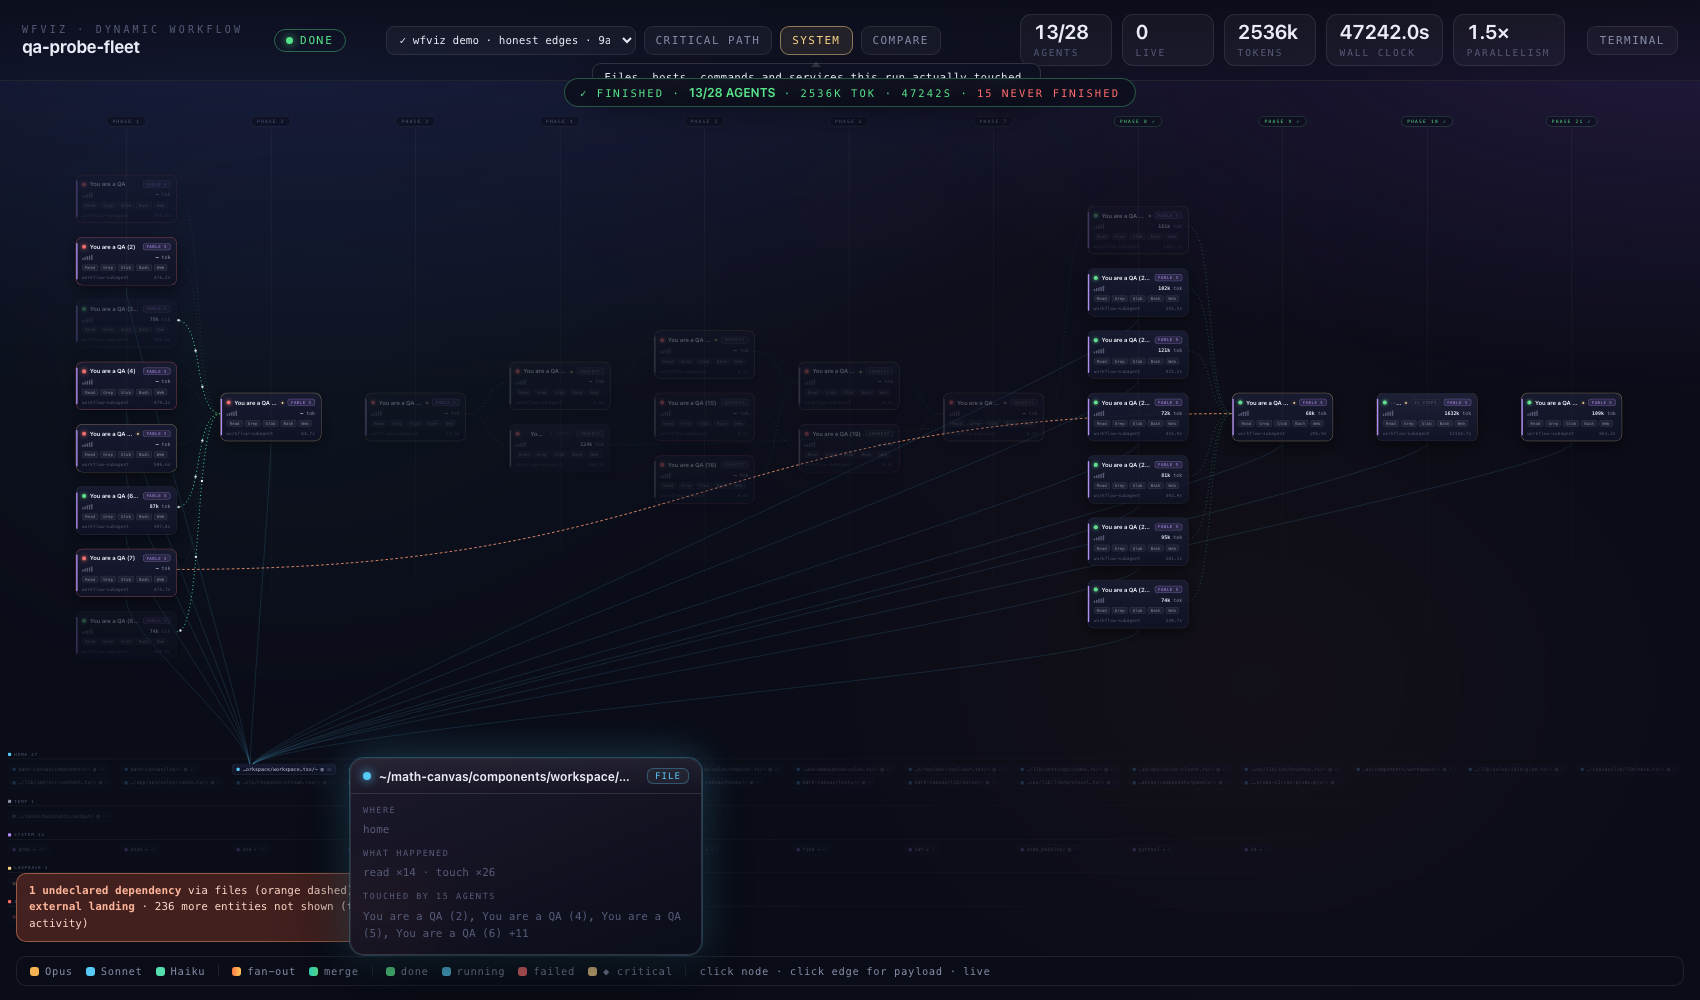
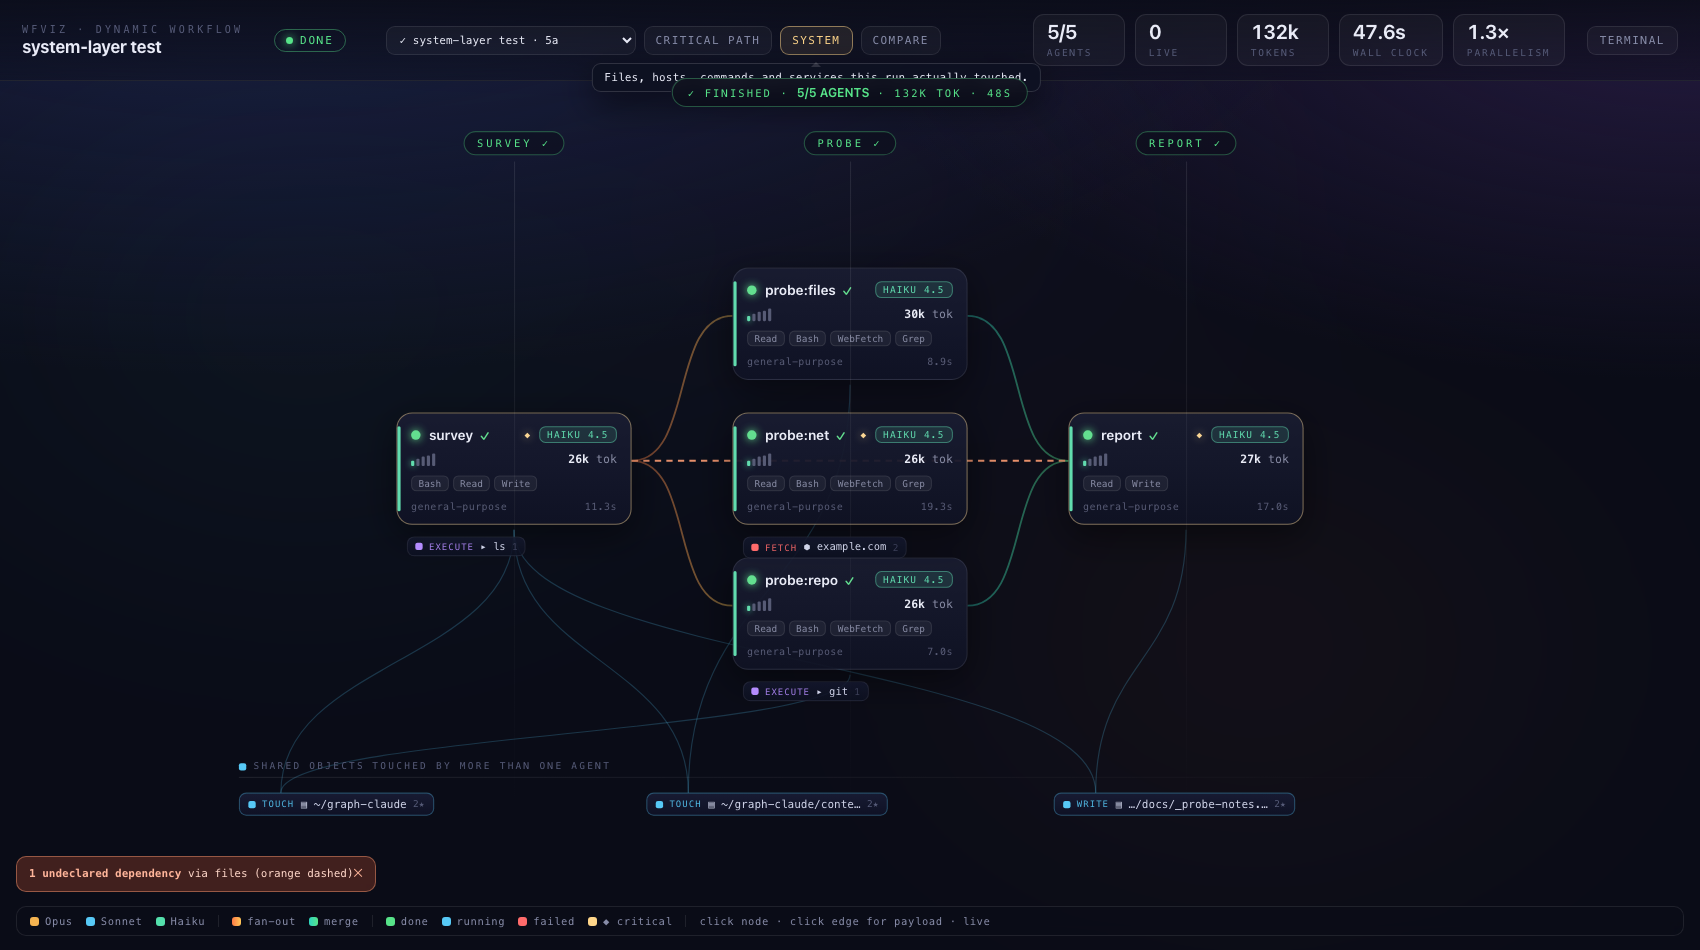
System layer: put each agent's objects on the agent, route only what is shared
The first cut drew every agent-to-entity link into a lane at the bottom.
On a real run that is 355 edges and the structure disappears.

An object touched by exactly one agent now renders as a chip on that
agent, labelled with the verb: EXECUTE ls, FETCH example.com, WRITE
notes.md. No edge is needed to say who touched it, so none is drawn.
Only objects touched by more than one agent get routed edges, because
shared state is the coupling worth seeing. Same run: 6 edges instead of
355.

Hovering an agent or an object lights its existing links and dims the
rest rather than creating new ones. The layer re-reads while a run is
going so actions appear as they happen.

Fixes path labels rendering reversed (direction:rtl put the leading ~ at
the end) and the empty band between the graph and the shared lane.

diff --git a/dashboard.html b/dashboard.html
@@ -261,16 +261,26 @@
   .lane .lname i{width:7px;height:7px;border-radius:2px;display:inline-block}
   .lane .lrule{height:1px;background:linear-gradient(90deg,var(--line),transparent);margin-top:5px}
   .ent{position:absolute;display:flex;align-items:center;gap:6px;max-width:230px;cursor:pointer;
-    padding:5px 9px;border-radius:8px;font-size:11px;color:#cfd3e8;
-    background:linear-gradient(180deg,rgba(24,28,52,.9),rgba(15,18,38,.9));
-    border:1px solid var(--line);transition:border-color .2s,transform .2s,box-shadow .2s}
+    padding:4px 8px;border-radius:7px;font-size:10.5px;color:#cfd3e8;
+    background:linear-gradient(180deg,rgba(24,28,52,.92),rgba(15,18,38,.92));
+    border:1px solid var(--line);transition:border-color .2s,transform .2s,box-shadow .2s,opacity .18s}
+  /* an object only this agent touched: sits on the agent, so it needs no edge */
+  .ent.solo{padding:3px 7px;font-size:10px;border-color:rgba(255,255,255,.07);
+    background:linear-gradient(180deg,rgba(20,24,45,.86),rgba(13,16,33,.86))}
+  .ent.solo .ecount{opacity:.6}
+  .ent.shared{border-color:color-mix(in srgb,var(--ez) 32%,transparent)}
+  .ent .everb{flex:none;font-size:8.5px;letter-spacing:.12em;text-transform:uppercase;color:var(--ez);opacity:.9}
+  .entmore{position:absolute;font-size:9px;letter-spacing:.08em;color:var(--dim);cursor:default;
+    padding:2px 7px;border-radius:6px;border:1px dashed var(--line)}
   .ent:hover{transform:translateY(-1px);border-color:var(--ez);box-shadow:0 6px 20px rgba(0,0,0,.45)}
   .ent.sel{border-color:var(--ez);box-shadow:0 0 0 1px var(--ez)}
   .ent .edot{width:7px;height:7px;border-radius:2px;flex:none;background:var(--ez)}
-  .ent .elabel{overflow:hidden;text-overflow:ellipsis;white-space:nowrap;direction:rtl;text-align:left}
+  .ent .elabel{overflow:hidden;text-overflow:ellipsis;white-space:nowrap}
   .ent .ecount{flex:none;font-size:9px;color:var(--dim);font-variant-numeric:tabular-nums}
   .ent:focus-visible{outline:2px solid var(--sonnet);outline-offset:2px}
-  #edgeG path.entedge{stroke:var(--ez,#4a5480);stroke-width:1;opacity:.3;fill:none}
+  #edgeG path.entedge{stroke:var(--ez,#4a5480);stroke-width:1.1;opacity:.22;fill:none;
+    stroke-linecap:round;transition:opacity .18s,stroke-width .18s}
+  #edgeG path.entedge.lit{opacity:.95;stroke-width:2}
   .ent.dim{opacity:.2} .node.dim{opacity:.3;filter:saturate(.5)}
   .ent,.node{transition:opacity .18s}
   #edgeG path.implicit{stroke:#ff9d73;stroke-width:2;stroke-dasharray:6 5;opacity:.9;fill:none}
@@ -1030,7 +1040,7 @@ const ZLABEL={workspace:'workspace',home:'home',temp:'temp',system:'system',
   loopback:'loopback',lan:'local network',internet:'internet',service:'service'};
 const EKIND={file:'▤',host:'⬢',command:'▸',query:'⌕',service:'⧉'};
 const ENT_LIMIT=42;
-let sysOn=false, ctxData=null, ctxRun=null, lastL=null, sysNoteMuted=0;
+let sysOn=false, ctxData=null, ctxRun=null, lastL=null, sysNoteMuted=0, ctxAt=0;
 
 document.getElementById('sysbtn').addEventListener('click',async()=>{
   sysOn=!sysOn;
@@ -1059,67 +1069,125 @@ function renderSystem(L,state){
   clearSystem();
   if(!sysOn||!ctxData||ctxData.error||!ctxData.entities) return;
   const all=ctxData.entities;
-  const shown=all.slice(0,ENT_LIMIT);
-  const byZone={};
-  shown.forEach(e=>(byZone[e.zone]=byZone[e.zone]||[]).push(e));
 
-  const top=L.H+70, COLW=248, ROWH=30;
-  let y=top; const pos={};
-  ZONES.filter(z=>byZone[z]).forEach(z=>{
-    const list=byZone[z];
-    const lane=document.createElement('div'); lane.className='lane';
-    lane.style.left='0px'; lane.style.top=y+'px'; lane.style.width=L.W+'px';
-    lane.innerHTML=`<div class="lname"><i style="background:var(--z-${z})"></i>${ZLABEL[z]||z}`
-      +` <span style="color:var(--dim)">${list.length}</span></div><div class="lrule"></div>`;
-    stage.appendChild(lane);
-    y+=26;
-    const perRow=Math.max(1,Math.floor(L.W/COLW));
-    list.forEach((e,i)=>{
-      const cx=(i%perRow)*COLW, cy=y+Math.floor(i/perRow)*ROWH;
-      pos[e.id]={x:cx,y:cy};
-      const el=document.createElement('div');
-      el.className='ent'; el.style.setProperty('--ez',`var(--z-${e.zone})`);
-      el.style.left=cx+'px'; el.style.top=cy+'px';
-      el.dataset.eid=e.id; el.tabIndex=0; el.setAttribute('role','button');
-      el.setAttribute('aria-label',`${e.kind} ${e.label}, ${e.opCount} operations`);
-      el.innerHTML=`<span class="edot"></span><span class="elabel" title="">${esc(EKIND[e.kind]||'')} ${esc(e.label)}</span>`
-        +`<span class="ecount">${e.opCount}</span>`;
-      el.addEventListener('mouseenter',()=>showEntTip(e,el));
-      el.addEventListener('focus',()=>showEntTip(e,el));
-      el.addEventListener('mouseleave',hideTip);
-      el.addEventListener('blur',hideTip);
-      el.addEventListener('click',ev=>{ev.stopPropagation(); if(!moved) openEntity(e);});
-      el.addEventListener('keydown',ev=>{if(ev.key==='Enter'||ev.key===' '){ev.preventDefault();openEntity(e);}});
+  // Who touched what. An entity touched by one agent belongs to that agent and
+  // is drawn ON it — no edge needed. Only shared entities get routed edges,
+  // which is what keeps the picture clean: coupling is the thing worth drawing.
+  const owner={}, shared=[];
+  all.forEach(e=>{
+    if(e.agents.length===1) (owner[e.agents[0]]=owner[e.agents[0]]||[]).push(e);
+    else if(e.agents.length>1) shared.push(e);
+  });
+
+  // ---- per-agent object chips, stacked under their agent -------------------
+  const SOLO_MAX=4;
+  Object.entries(owner).forEach(([aid,list])=>{
+    const p=nodePos[aid]; if(!p) return;
+    list.sort((a,b)=>b.opCount-a.opCount);
+    list.slice(0,SOLO_MAX).forEach((e,i)=>{
+      const el=mkEnt(e,'solo');
+      el.style.left=(p.x+10)+'px';
+      el.style.top=(p.y+NODEH+6+i*24)+'px';
+      el.style.maxWidth=(NW-20)+'px';
       stage.appendChild(el);
     });
-    y+=Math.ceil(list.length/perRow)*ROWH+18;
+    if(list.length>SOLO_MAX){
+      const more=document.createElement('div');
+      more.className='entmore';
+      more.style.left=(p.x+10)+'px';
+      more.style.top=(p.y+NODEH+6+SOLO_MAX*24)+'px';
+      more.textContent=`+${list.length-SOLO_MAX} more`;
+      more.title=list.slice(SOLO_MAX).map(x=>x.label).join('\n');
+      stage.appendChild(more);
+    }
   });
 
-  // Agent -> entity edges are drawn on focus only. Drawing all of them at once
-  // is a hairball (355 on a real run) that hides the structure it should show.
-  entPos=pos; entShown=shown;
-  entLinks={agent:{},ent:{}};
-  (ctxData.edges||[]).forEach(ed=>{
-    if(!pos[ed.to]) return;
-    (entLinks.agent[ed.from]=entLinks.agent[ed.from]||new Set()).add(ed.to);
-    (entLinks.ent[ed.to]=entLinks.ent[ed.to]||new Set()).add(ed.from);
+  // ---- shared objects: one lane, short clean links -------------------------
+  entPos={}; entShown=all;
+  // sit the lane just below the lowest agent + its attached chips
+  let deepest=0;
+  Object.entries(owner).forEach(([aid,list])=>{
+    const p=nodePos[aid]; if(!p) return;
+    deepest=Math.max(deepest,p.y+NODEH+6+Math.min(list.length,SOLO_MAX+1)*24);
   });
+  Object.values(nodePos).forEach(p=>deepest=Math.max(deepest,p.y+NODEH));
+  let laneTop=deepest+52;
+  if(shared.length){
+    shared.sort((a,b)=>b.agents.length-a.agents.length||b.opCount-a.opCount);
+    const show=shared.slice(0,18);
+    const lane=document.createElement('div'); lane.className='lane';
+    lane.style.left='0px'; lane.style.top=laneTop+'px'; lane.style.width=L.W+'px';
+    lane.innerHTML=`<div class="lname"><i style="background:var(--z-home)"></i>shared objects`
+      +` <span style="color:var(--dim)">touched by more than one agent</span></div><div class="lrule"></div>`;
+    stage.appendChild(lane);
+    const y0=laneTop+30, COLW=Math.max(190,Math.floor(L.W/Math.min(show.length||1,5))), ROWH=30;
+    const perRow=Math.max(1,Math.floor(L.W/COLW));
+    show.forEach((e,i)=>{
+      const cx=(i%perRow)*COLW, cy=y0+Math.floor(i/perRow)*ROWH;
+      entPos[e.id]={x:cx,y:cy};
+      const el=mkEnt(e,'shared');
+      el.style.left=cx+'px'; el.style.top=cy+'px';
+      stage.appendChild(el);
+    });
+    laneTop=y0+Math.ceil(show.length/perRow)*ROWH+16;
 
-  // implicit dependencies, drawn between the two AGENTS
+    // one link per (agent, shared entity): few, short, and meaningful
+    show.forEach(e=>{
+      const b=entPos[e.id];
+      e.agents.forEach(a=>{
+        const A=nodePos[a]; if(!A) return;
+        const x1=A.x+NW/2, y1=A.y+NODEH, x2=b.x+40, y2=b.y;
+        const mid=(y1+y2)/2;
+        const p=document.createElementNS('http://www.w3.org/2000/svg','path');
+        p.setAttribute('d',`M${x1},${y1} C${x1},${mid} ${x2},${mid} ${x2},${y2}`);
+        p.setAttribute('class','entedge'); p.style.setProperty('--ez',`var(--z-${e.zone})`);
+        p.dataset.a=a; p.dataset.e=e.id;
+        edgeG.appendChild(p);
+      });
+    });
+  }
+
+  // ---- undeclared dependencies, on the agent graph itself ------------------
   (ctxData.findings||[]).filter(f=>f.kind==='implicit-dep'&&!f.declared).forEach(f=>{
     const a=nodePos[f.from], b=nodePos[f.to]; if(!a||!b) return;
     const p=document.createElementNS('http://www.w3.org/2000/svg','path');
     p.setAttribute('d',edgePath(a,b)); p.setAttribute('class','implicit');
-    p.appendChild(document.createElementNS('http://www.w3.org/2000/svg','title'))
-     .textContent=`undeclared dependency via ${f.label}`;
+    const t=document.createElementNS('http://www.w3.org/2000/svg','title');
+    t.textContent=`undeclared dependency via ${f.label}`;
+    p.appendChild(t);
     edgeG.appendChild(p);
   });
 
-  edgesSvg.setAttribute('height',Math.max(L.H,y+40));
-  // the band sits below the agent graph, so the view must be refitted to include it
-  L.H=Math.max(L.H,y+40);
+  edgesSvg.setAttribute('height',Math.max(L.H,laneTop+40));
+  L.H=Math.max(L.H,laneTop+40);
   if(!userMoved) fit(L);
-  showSysNote(all.length-shown.length);
+  showSysNote(Math.max(0,shared.length-18));
+}
+
+// Keep the tail of a path, which is the part that identifies it.
+function shortLabel(l){
+  if(l.length<=30||!l.includes('/')) return l;
+  const parts=l.split('/');
+  return '…/'+parts.slice(-2).join('/');
+}
+
+function mkEnt(e,mode){
+  const el=document.createElement('div');
+  el.className='ent '+mode; el.style.setProperty('--ez',`var(--z-${e.zone})`);
+  el.dataset.eid=e.id; el.tabIndex=0; el.setAttribute('role','button');
+  el.setAttribute('aria-label',`${e.kind} ${e.label}, ${e.opCount} operations`);
+  const ops={}; (e.ops||[]).forEach(o=>ops[o.op]=(ops[o.op]||0)+1);
+  const verb=Object.keys(ops).sort((a,b)=>ops[b]-ops[a])[0]||'';
+  el.innerHTML=`<span class="edot"></span><span class="everb">${esc(verb)}</span>`
+    +`<span class="elabel" title="${esc(e.label)}">${esc(EKIND[e.kind]||'')} ${esc(shortLabel(e.label))}</span>`
+    +(mode==='shared'?`<span class="ecount">${e.agents.length}★</span>`:`<span class="ecount">${e.opCount}</span>`);
+  el.addEventListener('mouseenter',()=>showEntTip(e,el));
+  el.addEventListener('focus',()=>showEntTip(e,el));
+  el.addEventListener('mouseleave',hideTip);
+  el.addEventListener('blur',hideTip);
+  el.addEventListener('click',ev=>{ev.stopPropagation(); if(!moved) openEntity(e);});
+  el.addEventListener('keydown',ev=>{if(ev.key==='Enter'||ev.key===' '){ev.preventDefault();openEntity(e);}});
+  return el;
 }
 
 function showSysNote(hidden){
@@ -1140,26 +1208,23 @@ function showSysNote(hidden){
 let entPos={}, entShown=[], entLinks={agent:{},ent:{}};
 
 function clearFocus(){
-  document.querySelectorAll('#edgeG path.entedge').forEach(e=>e.remove());
+  document.querySelectorAll('#edgeG path.entedge.lit').forEach(e=>e.classList.remove('lit'));
   document.querySelectorAll('.ent.dim,.node.dim').forEach(e=>e.classList.remove('dim'));
 }
 
 function focusLinks(kind,id){
   clearFocus();
-  const ents = kind==='agent' ? (entLinks.agent[id]||new Set())
-                              : new Set([id]);
-  const agents = kind==='agent' ? new Set([id]) : (entLinks.ent[id]||new Set());
-  if(!ents.size||!agents.size) return;
-  agents.forEach(a=>ents.forEach(en=>{
-    const A=nodePos[a], B=entPos[en]; if(!A||!B) return;
-    const ent=entShown.find(x=>x.id===en); if(!ent) return;
-    const p=document.createElementNS('http://www.w3.org/2000/svg','path');
-    p.setAttribute('d',`M${A.x+NW/2},${A.y+NODEH} C${A.x+NW/2},${A.y+NODEH+80} ${B.x+40},${B.y-70} ${B.x+40},${B.y+9}`);
-    p.setAttribute('class','entedge'); p.style.setProperty('--ez',`var(--z-${ent.zone})`);
-    p.setAttribute('opacity','.85'); p.setAttribute('stroke-width','1.6');
-    edgeG.appendChild(p);
-  }));
-  document.querySelectorAll('.ent').forEach(el=>el.classList.toggle('dim',!ents.has(el.dataset.eid)));
+  const ent=entShown.find(x=>x.id===id);
+  const agents = kind==='agent' ? new Set([id]) : new Set((ent&&ent.agents)||[]);
+  document.querySelectorAll('#edgeG path.entedge').forEach(p=>{
+    const hit = kind==='agent' ? p.dataset.a===id : p.dataset.e===id;
+    p.classList.toggle('lit',hit);
+  });
+  document.querySelectorAll('.ent').forEach(el=>{
+    const e2=entShown.find(x=>x.id===el.dataset.eid);
+    const rel = kind==='agent' ? (e2&&e2.agents.includes(id)) : el.dataset.eid===id;
+    el.classList.toggle('dim',!rel);
+  });
   document.querySelectorAll('.node').forEach(el=>el.classList.toggle('dim',!agents.has(el.dataset.id)));
 }
 
@@ -1217,7 +1282,11 @@ async function tick(){
     const qs = pinnedRun ? ('?run='+encodeURIComponent(pinnedRun)+(SESSQ?'&session='+encodeURIComponent(SESSQ):'')) : Q;
     const r=await fetch('/state'+qs,{cache:'no-store'}); const s=await r.json();
     if(s&&s.empty){document.getElementById('empty').style.display='grid';}
-    else if(s&&!s.error){ if(changed(s)){render(s);seedParticles();} showWarnings(s); }
+    else if(s&&!s.error){
+      if(changed(s)){render(s);seedParticles();}
+      showWarnings(s);
+      if(sysOn && s.status==='running' && Date.now()-ctxAt>4000){ ctxAt=Date.now(); ctxRun=null; loadContext().then(()=>cur&&render(cur)); }
+    }
     loadRuns();
   }catch(e){}
 }
